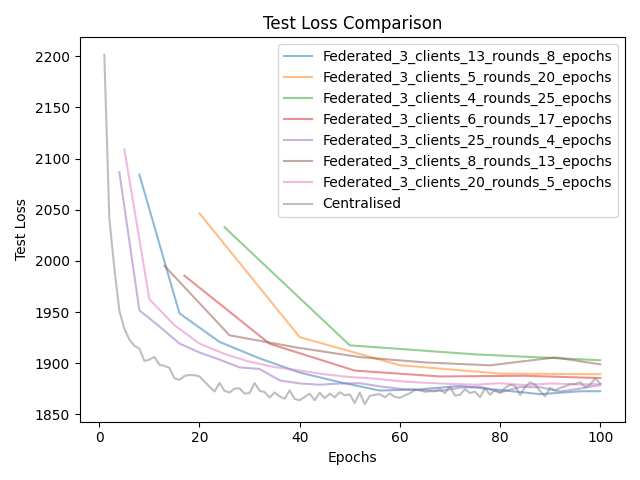
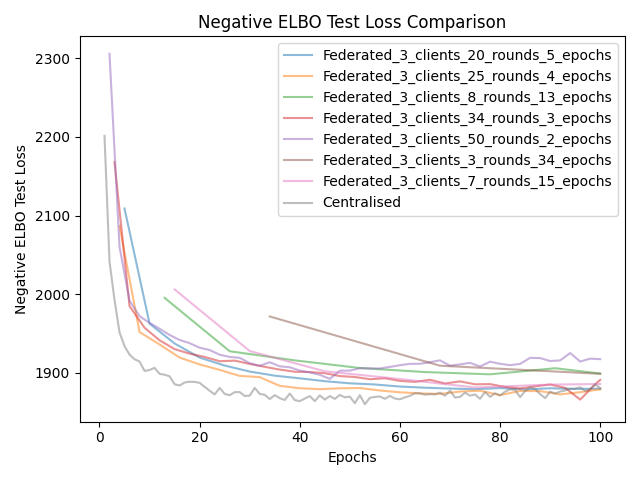
new_plots_name

diff --git a/create_curve_plot.py b/create_curve_plot.py
@@ -94,8 +94,8 @@ def plot_training_curves(csv_folder, loss_name, output_folder='plots', mode='com
             if model in color_map:
                 plt.plot(x_axes[model], train_losses[model], label=model, color=color_map[model])
         plt.xlabel('Epochs')
-        plt.ylabel('Train Loss')
-        plt.title('Train Loss Comparison')
+        plt.ylabel('Negative ELBO Train Loss')
+        plt.title('Negative ELBO Train Loss Comparison')
         if mode != 'compare_fed_scores':
             plt.legend()
         plt.tight_layout()
@@ -112,8 +112,8 @@ def plot_training_curves(csv_folder, loss_name, output_folder='plots', mode='com
                 else:
                     plt.plot(x_axes[model], test_losses[model], label=model, color=color_map[model])
         plt.xlabel('Epochs')
-        plt.ylabel('Test Loss')
-        plt.title('Test Loss Comparison')
+        plt.ylabel('Negative ELBO Test Loss')
+        plt.title('Negative ELBO Test Loss Comparison')
         #if mode != 'compare_fed_scores':
         plt.legend()
         plt.tight_layout()
